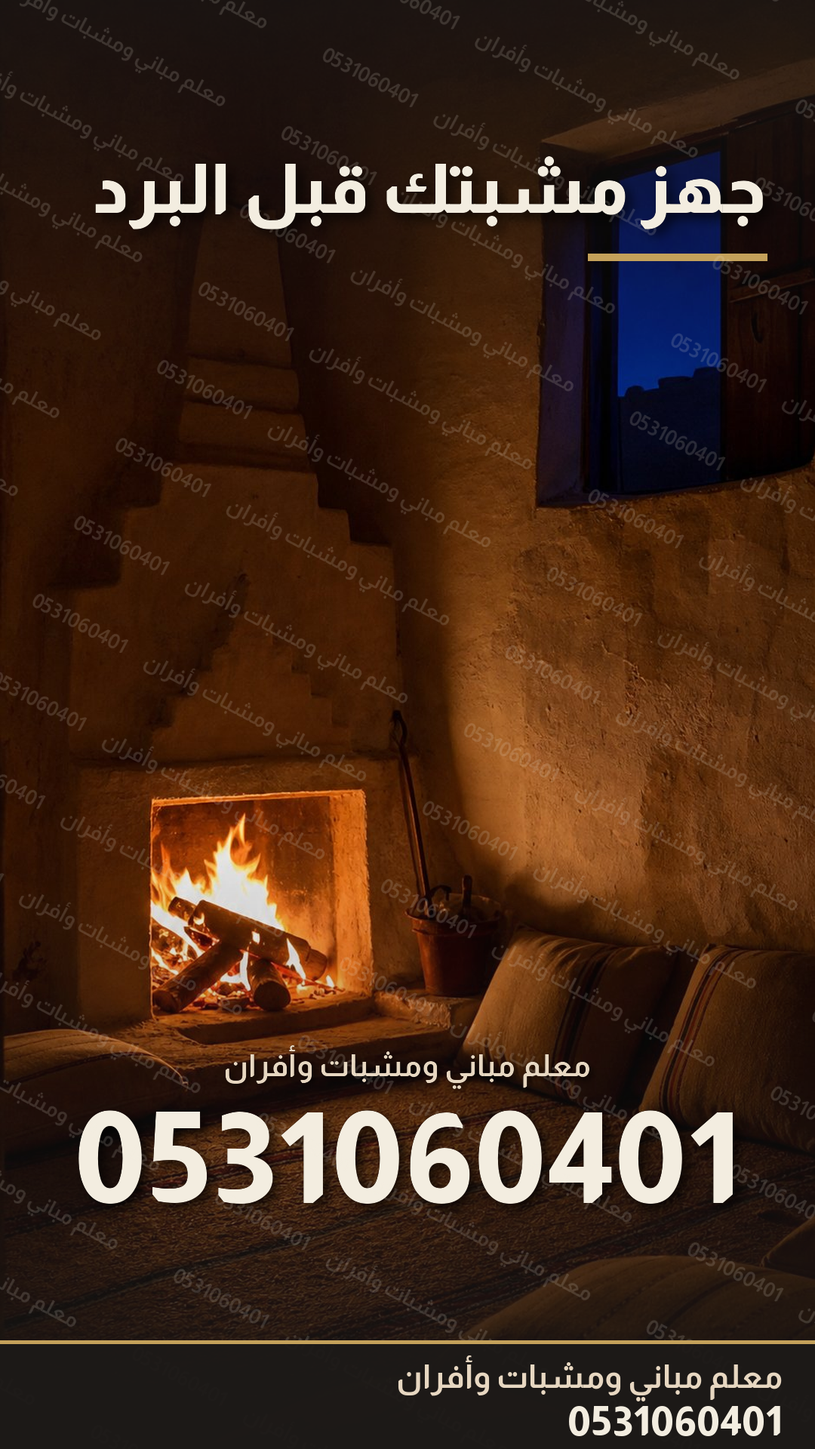
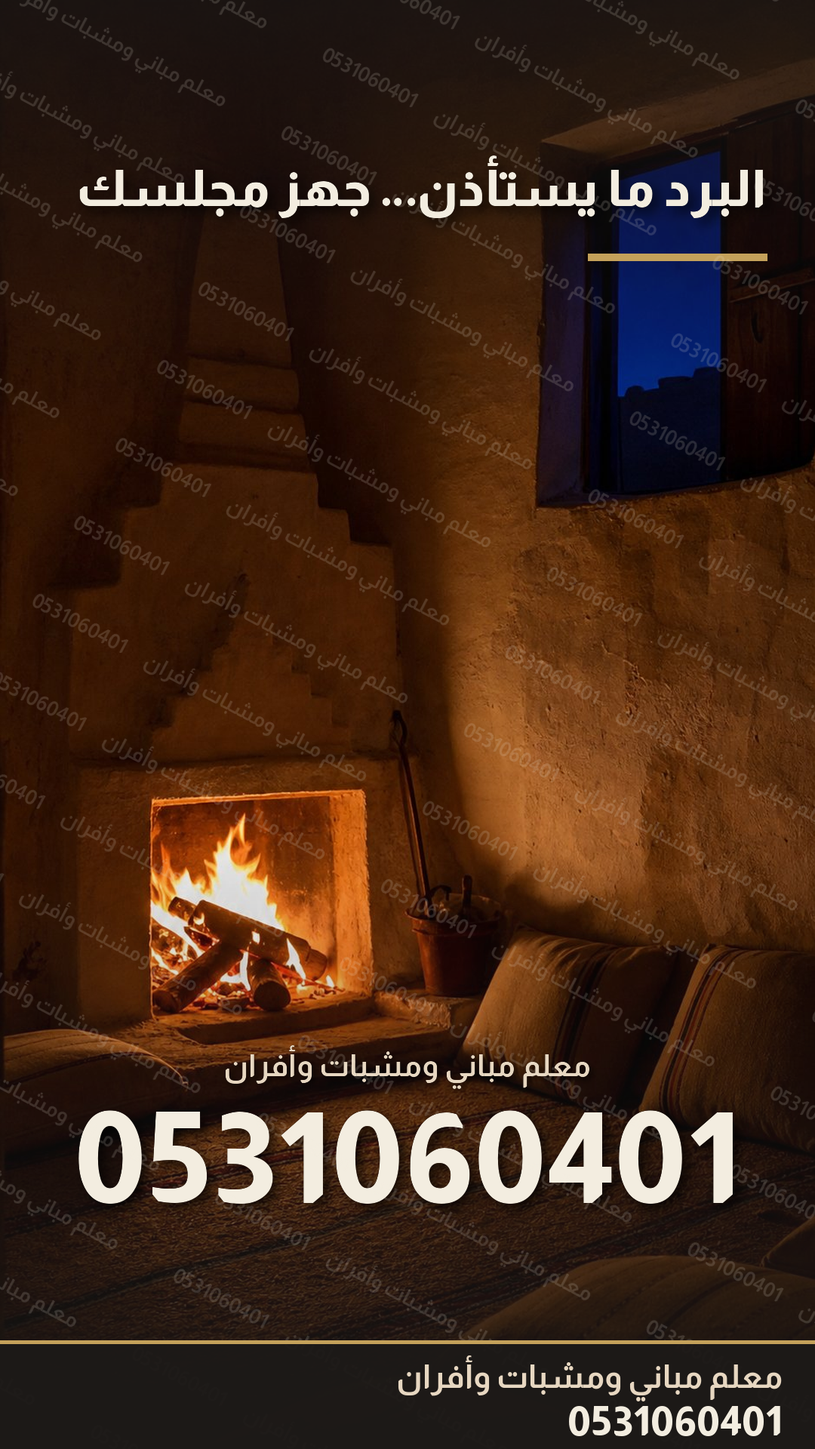
نسخ إعلاني جذاب: موقع محدث (اتصال+عهود+أسئلة)، هوك الصور والحالات، JSON-LD

Changed region(s): [[0.0917, 0.0938, 0.9472, 0.1562]]

diff --git a/haraj-riyadh-2026/docs/index.html b/haraj-riyadh-2026/docs/index.html
@@ -1,0 +1,334 @@
+<!DOCTYPE html>
+<html lang="ar" dir="rtl">
+<head>
+<meta charset="UTF-8">
+<meta name="viewport" content="width=device-width, initial-scale=1.0">
+<title>مشبات الرياض | معلم مباني — مشبات ملكية، أفران طين، جدران | 0531060401</title>
+<meta name="description" content="مجلسك يستاهل ناراً تليق فيه. معلم مباني في الرياض يبني بيده: مشبات ملكية وطوب وحجر ورخام، أفران طين ومندي، جدران وفواصل. سعر يُكتب قبل أول طوبة ويلزمنا. اتصل: 0531060401">
+<meta name="keywords" content="مشبات الرياض، مشبات حطب، مشبات طوب، مشبات حجر، مشبات ملكية، فرن طين، فرن حطب، أفران مندي، فرن خبز، معلم مباني الرياض، بناء جدران، فواصل، شويات، مناقل، حفر مندي، مداخن، استراحات، مزارع">
+<meta property="og:title" content="مشبات الرياض — مجلسك يستاهل ناراً تليق فيه">
+<meta property="og:description" content="معلم يبني بيده، سعر يُقفل قبل أول طوبة، ومدخنة تسحب صح. 0531060401">
+<meta property="og:image" content="assets/hero-royal.jpg">
+<meta property="og:type" content="website">
+<meta property="og:locale" content="ar_SA">
+<meta name="twitter:card" content="summary_large_image">
+<link rel="icon" type="image/jpeg" href="assets/profile.jpg">
+<link rel="preconnect" href="https://fonts.googleapis.com">
+<link rel="preconnect" href="https://fonts.gstatic.com" crossorigin>
+<link href="https://fonts.googleapis.com/css2?family=Almarai:wght@300;400;700;800&display=swap" rel="stylesheet">
+<script type="application/ld+json">
+{"@context":"https://schema.org","@type":"LocalBusiness",
+ "name":"مشبات وأفران — معلم مباني الرياض",
+ "telephone":"+966531060401",
+ "image":"assets/hero-royal.jpg",
+ "priceRange":"تبدأ من 1500",
+ "areaServed":["الرياض","الخرج","المزاحمية","ثرمداء","رماح","الحوطة","الدرعية"],
+ "description":"معلم مباني يبني بيده مشبات حطب وأفران طين وجدران وفواصل في الرياض. السعر يُكتب من البداية وما يتغير."}
+</script>
+<style>
+:root{
+  --charcoal:#1C1917; --brick:#8C3A2F; --brick2:#A34B32; --sand:#E7D7C1;
+  --cream:#F3EDE0; --ember:#C4A15A; --night:#1A2332; --wa:#1FAF63; --call:#D97706;
+}
+*{margin:0;padding:0;box-sizing:border-box}
+html{scroll-behavior:smooth}
+body{font-family:'Almarai',system-ui,sans-serif;background:var(--cream);color:var(--charcoal);line-height:1.75;overflow-x:hidden}
+img{max-width:100%;display:block}
+a{text-decoration:none;color:inherit}
+.wrap{width:min(1150px,92%);margin-inline:auto}
+
+/* ---------- الهيدر ---------- */
+header{position:sticky;top:0;z-index:50;background:rgba(28,25,23,.96);backdrop-filter:blur(8px);border-bottom:2px solid var(--ember)}
+.nav{display:flex;align-items:center;justify-content:space-between;gap:16px;padding:12px 0}
+.brand{display:flex;align-items:center;gap:12px;color:var(--cream)}
+.brand img{width:46px;height:46px;border-radius:50%;border:2px solid var(--ember)}
+.brand b{font-size:1.05rem;font-weight:800}
+.brand small{display:block;color:var(--ember);font-size:.72rem;font-weight:700}
+.nav-links{display:flex;gap:22px;font-weight:700;font-size:.92rem}
+.nav-links a{color:var(--sand);transition:.2s}
+.nav-links a:hover{color:var(--ember)}
+.head-ctas{display:flex;gap:10px}
+.call-btn{background:var(--brick);color:var(--cream);padding:10px 20px;border-radius:999px;font-weight:800;font-size:.95rem;direction:ltr;transition:.2s;border:1px solid var(--brick2)}
+.call-btn:hover{background:var(--brick2);transform:translateY(-1px)}
+@media(max-width:900px){.nav-links{display:none}}
+
+/* ---------- الهيرو ---------- */
+.hero{position:relative;min-height:82vh;display:flex;align-items:center;color:var(--cream);
+  background:linear-gradient(270deg,rgba(28,25,23,.94) 20%,rgba(28,25,23,.6) 55%,rgba(28,25,23,.25)),url('assets/hero-royal.jpg') center/cover no-repeat}
+.hero .wrap{padding:80px 0}
+.kicker{display:inline-block;background:rgba(196,161,90,.15);border:1px solid var(--ember);color:var(--ember);padding:6px 18px;border-radius:999px;font-weight:800;font-size:.85rem;margin-bottom:18px;animation:fadeUp .7s .1s both}
+.hero h1{font-size:clamp(2rem,4.8vw,3.6rem);font-weight:800;line-height:1.4;margin-bottom:16px;animation:fadeUp .7s .25s both}
+.hero h1 span{color:var(--ember)}
+.hero p{font-size:clamp(1.02rem,1.7vw,1.25rem);color:var(--sand);max-width:680px;margin-bottom:32px;animation:fadeUp .7s .4s both}
+.cta{display:flex;gap:14px;flex-wrap:wrap;animation:fadeUp .7s .55s both}
+.btn{padding:15px 32px;border-radius:14px;font-weight:800;font-size:1.08rem;transition:.2s;display:inline-flex;align-items:center;gap:10px}
+.btn-call{background:var(--call);color:#fff;box-shadow:0 8px 24px rgba(217,119,6,.35)}
+.btn-wa{background:var(--wa);color:#fff;box-shadow:0 8px 24px rgba(31,175,99,.35)}
+.btn-call:hover,.btn-wa:hover{transform:translateY(-3px)}
+.btn-ghost{border:2px solid var(--ember);color:var(--ember)}
+.btn-ghost:hover{background:rgba(196,161,90,.12)}
+.num{direction:ltr;font-weight:800}
+@keyframes fadeUp{from{opacity:0;transform:translateY(22px)}to{opacity:1;transform:none}}
+
+/* ---------- شريط الثقة ---------- */
+.trust{background:var(--charcoal);color:var(--sand);padding:24px 0}
+.trust .wrap{display:flex;gap:14px 38px;flex-wrap:wrap;justify-content:center;font-weight:700;font-size:.98rem}
+.trust i{color:var(--ember);font-style:normal}
+
+/* ---------- الأقسام ---------- */
+section{padding:80px 0}
+.h2{font-size:clamp(1.55rem,3.1vw,2.3rem);font-weight:800;margin-bottom:8px}
+.h2::after{content:"";display:block;width:78px;height:5px;background:var(--brick);border-radius:4px;margin-top:10px}
+.lead{color:#6b5f55;max-width:700px;margin:14px 0 40px;font-size:1.05rem}
+
+/* أنماط */
+.styles{background:#fff}
+.grid{display:grid;grid-template-columns:repeat(auto-fit,minmax(260px,1fr));gap:22px}
+.card{border-radius:18px;overflow:hidden;background:var(--cream);box-shadow:0 4px 18px rgba(28,25,23,.08);transition:.25s}
+.card:hover{transform:translateY(-6px);box-shadow:0 16px 38px rgba(28,25,23,.16)}
+.card img{height:230px;width:100%;object-fit:cover}
+.card .txt{padding:18px 20px 22px}
+.card h3{font-weight:800;font-size:1.14rem;margin-bottom:6px;color:var(--brick)}
+.card p{font-size:.93rem;color:#6b5f55}
+
+/* المعرض */
+.gallery{background:var(--charcoal);color:var(--cream)}
+.gallery .h2::after{background:var(--ember)}
+.gallery .lead{color:#b9ada0}
+.g-grid{display:grid;grid-template-columns:repeat(auto-fit,minmax(240px,1fr));gap:14px}
+.g-grid figure{position:relative;border-radius:12px;overflow:hidden;aspect-ratio:1}
+.g-grid img{width:100%;height:100%;object-fit:cover;transition:.4s}
+.g-grid figure:hover img{transform:scale(1.06)}
+.g-grid figcaption{position:absolute;inset-inline:0;bottom:0;background:linear-gradient(transparent,rgba(28,25,23,.92));padding:34px 14px 12px;font-size:.86rem;font-weight:700;color:var(--sand)}
+.honesty{margin-top:26px;font-size:.86rem;color:#9c9187;border-inline-start:3px solid var(--ember);padding-inline-start:14px}
+
+/* الأسعار */
+.prices{background:var(--sand)}
+.p-grid{display:grid;grid-template-columns:repeat(auto-fit,minmax(230px,1fr));gap:18px}
+.p-card{background:#fff;border-radius:18px;padding:26px 22px;box-shadow:0 4px 16px rgba(28,25,23,.07);border-top:5px solid var(--brick);transition:.2s}
+.p-card:hover{transform:translateY(-4px)}
+.p-card h3{font-weight:800;margin-bottom:8px}
+.p-card .v{font-size:1.5rem;font-weight:800;color:var(--brick);direction:ltr;text-align:right}
+.p-card small{color:#6b5f55}
+.offer{margin-top:32px;background:var(--charcoal);color:var(--cream);border:1px solid var(--ember);border-radius:18px;padding:28px 30px;display:flex;gap:20px;align-items:center;justify-content:space-between;flex-wrap:wrap}
+.offer b{color:var(--ember)}
+.offer p{max-width:580px}
+
+/* طريقتنا */
+.method{background:#fff}
+.m-grid{display:grid;grid-template-columns:repeat(auto-fit,minmax(240px,1fr));gap:20px}
+.m-card{background:var(--cream);border-radius:18px;padding:26px 24px;border-inline-start:5px solid var(--ember)}
+.m-card h3{font-weight:800;margin-bottom:6px}
+.m-card p{font-size:.93rem;color:#6b5f55}
+
+/* الخطوات */
+.steps{background:var(--sand)}
+.s-grid{display:grid;grid-template-columns:repeat(auto-fit,minmax(240px,1fr));gap:22px;counter-reset:st}
+.step{background:#fff;border-radius:18px;padding:30px 24px;position:relative;counter-increment:st;box-shadow:0 4px 16px rgba(28,25,23,.07)}
+.step::before{content:counter(st);position:absolute;top:-18px;inset-inline-start:22px;width:44px;height:44px;border-radius:50%;background:var(--brick);color:var(--cream);display:grid;place-items:center;font-weight:800;font-size:1.15rem}
+.step h3{margin:8px 0 6px;font-weight:800}
+.step p{font-size:.94rem;color:#6b5f55}
+
+/* الأسئلة */
+.faq{background:#fff}
+.faq details{background:var(--cream);border-radius:14px;margin-bottom:12px;padding:18px 22px;transition:.2s}
+.faq details[open]{box-shadow:0 6px 18px rgba(28,25,23,.1)}
+.faq summary{font-weight:800;cursor:pointer;list-style:none;position:relative;padding-inline-end:26px}
+.faq summary::after{content:"+";position:absolute;inset-inline-end:0;color:var(--brick);font-weight:800;transition:.2s}
+.faq details[open] summary::after{transform:rotate(45deg)}
+.faq p{margin-top:10px;color:#6b5f55;font-size:.95rem}
+
+/* المدن */
+.cities{margin-top:50px;text-align:center}
+.chips{display:flex;flex-wrap:wrap;gap:10px;justify-content:center;margin-top:18px}
+.chip{background:var(--charcoal);color:var(--sand);padding:9px 22px;border-radius:999px;font-weight:700;font-size:.92rem}
+
+/* ---------- الفوتر ---------- */
+footer{background:var(--charcoal);color:var(--sand);padding:50px 0 110px;text-align:center}
+footer .num{font-size:1.8rem;color:var(--cream)}
+footer small{display:block;margin-top:10px;color:#8d8177}
+
+/* أزرار عائمة: اتصال + واتساب */
+.floats{position:fixed;bottom:22px;inset-inline-start:22px;z-index:60;display:flex;flex-direction:column;gap:12px}
+.floats a{width:60px;height:60px;border-radius:50%;display:grid;place-items:center;color:#fff;font-size:1.5rem;transition:.2s}
+.floats a:hover{transform:scale(1.1)}
+.f-wa{background:var(--wa);box-shadow:0 10px 26px rgba(31,175,99,.45)}
+.f-call{background:var(--call);box-shadow:0 10px 26px rgba(217,119,6,.45)}
+
+/* شريط جوال سفلي */
+.mobile-cta{display:none;position:fixed;bottom:0;inset-inline:0;z-index:55;background:var(--charcoal);padding:12px 16px calc(12px + env(safe-area-inset-bottom));gap:12px}
+.mobile-cta a{flex:1;text-align:center;border-radius:12px;padding:13px 0;font-weight:800;color:#fff}
+.mc-call{background:var(--call)}
+.mc-wa{background:var(--wa)}
+@media(max-width:720px){.mobile-cta{display:flex}.floats{display:none}footer{padding-bottom:130px}}
+
+/* ظهور عند التمرير */
+.rev{opacity:0;transform:translateY(26px);transition:opacity .7s ease,transform .7s ease}
+.rev.on{opacity:1;transform:none}
+@media(prefers-reduced-motion:reduce){.rev{opacity:1;transform:none;transition:none}.hero *{animation:none}}
+</style>
+</head>
+<body>
+
+<header>
+  <div class="wrap nav">
+    <a class="brand" href="#top">
+      <img src="assets/profile.jpg" alt="مشبات وأفران الرياض">
+      <span><b>معلم مباني | مشبات وأفران</b><small>الرياض — شغل يدٍ تطمئن له النار</small></span>
+    </a>
+    <nav class="nav-links">
+      <a href="#styles">الأنماط</a>
+      <a href="#gallery">المعرض</a>
+      <a href="#prices">الأسعار</a>
+      <a href="#method">طريقتنا</a>
+      <a href="#faq">الأسئلة</a>
+    </nav>
+    <div class="head-ctas">
+      <a class="call-btn num" href="tel:0531060401">0531060401</a>
+    </div>
+  </div>
+</header>
+
+<section class="hero" id="top">
+  <div class="wrap">
+    <span class="kicker">معلم مباني — الرياض وما حولها</span>
+    <h1>مجلسك يستاهل<br><span>ناراً تليق فيه</span></h1>
+    <p>من أول طوبة إلى أول شبّة… يد واحدة تبني، وسعر واحد يُكتب قبل الشغل <b>ويلزمنا</b>.
+       مشبات ملكية وطوب وحجر ورخام، أفران تفوح، وجدران تسند العين.</p>
+    <div class="cta">
+      <a class="btn btn-call num" href="tel:0531060401">📞 اتصل الآن — 0531060401</a>
+      <a class="btn btn-wa" href="https://wa.me/966531060401?text=%D8%A7%D9%84%D8%B3%D9%84%D8%A7%D9%85%20%D8%B9%D9%84%D9%8A%D9%83%D9%85%2C%20%D8%A3%D8%A8%D8%BA%D9%89%20%D8%A3%D8%B1%D8%B3%D9%84%20%D8%B5%D9%88%D8%B1%D8%A9%20%D8%A7%D9%84%D9%85%D9%83%D8%A7%D9%86%20%D9%88%D8%A2%D8%AE%D8%B0%20%D8%A7%D9%84%D8%B3%D8%B9%D8%B1" target="_blank" rel="noopener">واتساب: أرسل صورة المكان</a>
+      <a class="btn btn-ghost" href="#gallery">شوف النماذج</a>
+    </div>
+  </div>
+</section>
+
+<div class="trust">
+  <div class="wrap">
+    <span><i>✔</i> سعر يُقفل قبل أول طوبة</span>
+    <span><i>✔</i> يد معلم… لا سلسلة مقاولين</span>
+    <span><i>✔</i> مدخنة تسحب صح</span>
+    <span><i>✔</i> صورة يومية لك من موقع شغلك</span>
+  </div>
+</div>
+
+<section class="styles" id="styles">
+  <div class="wrap">
+    <h2 class="h2 rev">اختر شخصية مجلسك</h2>
+    <p class="lead rev">ملكي يباهي؟ تراثي يحكي؟ عصري يهدأ؟ نبني على ذوقك — مو على قالب.</p>
+    <div class="grid">
+      <div class="card rev"><img loading="lazy" src="assets/hero-royal.jpg" alt="مشبات ملكية بالرياض"><div class="txt"><h3>مشبات ملكية</h3><p>جدار طوب كامل بقوسٍ يفوح هيبة — مجلس يدخله البرد فيستحي.</p></div></div>
+      <div class="card rev"><img loading="lazy" src="assets/royal-02.jpg" alt="مشبة مع رفوف خشبية مدمجة"><div class="txt"><h3>مشبة ومكتبات مدمجة</h3><p>النار في الوسط، وذوقك على الرفوف — جدارٌ يُحكَى.</p></div></div>
+      <div class="card rev"><img loading="lazy" src="assets/royal-03.jpg" alt="مشبة تكسية حجر"><div class="txt"><h3>تكسية حجر وطوب</h3><p>حجرٌ مورّد وقوس طوب حراري — فخامة هادئة تعيش معك سنين.</p></div></div>
+      <div class="card rev"><img loading="lazy" src="assets/royal-04.jpg" alt="مشبة جبس بأقواس ديكورية"><div class="txt"><h3>أقواس ديكورية (GRC)</h3><p>تراثٌ بلمسة عصرية — أقواس تحضن النار وتحضن العين.</p></div></div>
+      <div class="card rev"><img loading="lazy" src="assets/brick-oven-01.jpg" alt="فرن ومنضدة بطوب حراري"><div class="txt"><h3>فرن ومنضدة بطوب</h3><p>للحوش والاستراحة: طوب حراري، منضدة، وتشطيب يفتح النفس.</p></div></div>
+      <div class="card rev"><img loading="lazy" src="assets/winter-01.jpg" alt="مشبة مجلس شتوي"><div class="txt"><h3>مشبة المجلس الشتوي</h3><p>نار دافية ومدخنة مضبوطة — لأن الشتاء ما يكمل إلا بمجلس.</p></div></div>
+    </div>
+  </div>
+</section>
+
+<section class="gallery" id="gallery">
+  <div class="wrap">
+    <h2 class="h2 rev">شغل يفتح النفس</h2>
+    <p class="lead rev">نماذج تُبنى على ذوقك — وكل شغل حقيقي يسلّم موثقاً بصورة من مكانه.</p>
+    <div class="g-grid">
+      <figure class="rev"><img loading="lazy" src="assets/hero-royal.jpg" alt="مجلس ملكي بمشبة طوب"><figcaption>مجلس ملكي — جدار طوب كامل</figcaption></figure>
+      <figure class="rev"><img loading="lazy" src="assets/royal-02.jpg" alt="مشبة برفوف مدمجة"><figcaption>مشبة ومكتبات مدمجة</figcaption></figure>
+      <figure class="rev"><img loading="lazy" src="assets/royal-03.jpg" alt="تكسية حجر"><figcaption>تكسية حجر وقوس طوب</figcaption></figure>
+      <figure class="rev"><img loading="lazy" src="assets/royal-04.jpg" alt="مشبة جبس"><figcaption>أقواس ديكورية</figcaption></figure>
+      <figure class="rev"><img loading="lazy" src="assets/winter-01.jpg" alt="مشبة مجلس"><figcaption>مجلس شتوي</figcaption></figure>
+      <figure class="rev"><img loading="lazy" src="assets/brick-oven-01.jpg" alt="فرن ومنضدة"><figcaption>فرن ومنضدة بطوب</figcaption></figure>
+      <figure class="rev"><img loading="lazy" src="assets/oven-01.jpg" alt="فرن طين"><figcaption>فرن طين — خبز ومندي</figcaption></figure>
+      <figure class="rev"><img loading="lazy" src="assets/walls-01.jpg" alt="بناء جدران"><figcaption>جدران وفواصل</figcaption></figure>
+      <figure class="rev"><img loading="lazy" src="assets/farms-03.jpg" alt="مشبة مزرعة"><figcaption>للمزارع والاستراحات</figcaption></figure>
+      <figure class="rev"><img loading="lazy" src="assets/night-01.jpg" alt="مشبة ليلية"><figcaption>ليالي الشتاء</figcaption></figure>
+    </div>
+    <p class="honesty">الصور نماذج وتصاميم إعلانية. شغلك أنت يوثَّق بصور من مكانك نفسه — ولا نقدّم صورة أحدٍ على أنها شغلنا.</p>
+  </div>
+</section>
+
+<section class="prices" id="prices">
+  <div class="wrap">
+    <h2 class="h2 rev">سعرنا واضح… لأن الوضوح يدفّي مثل النار</h2>
+    <p class="lead rev">ما نقول «الأرخص» كلاماً — نقول الأصدق رقماً: سعر على مكانك أنت، يُكتب قبل أول طوبة ويلزمنا.</p>
+    <div class="p-grid">
+      <div class="p-card rev"><h3>مشبة طوب أو حجر</h3><div class="v">1500+</div><small>تبدأ من — والحجم يغيّر السعر</small></div>
+      <div class="p-card rev"><h3>طوب حراري</h3><div class="v">2000–6000</div><small>حسب التصميم والعمق</small></div>
+      <div class="p-card rev"><h3>رخام</h3><div class="v">3000–15000</div><small>لمن اختار الشكل الملكي</small></div>
+      <div class="p-card rev"><h3>فرن طين / طوب</h3><div class="v">حسب الصورة</div><small>أرسل صورة وحجماً — خذ رقماً</small></div>
+      <div class="p-card rev"><h3>جدران وفواصل</h3><div class="v">سعر المتر</div><small>نتفق عليه من البداية</small></div>
+      <div class="p-card rev"><h3>شويات ومناقل ومندي</h3><div class="v">حسب الطلب</div><small>مع المشبة أو لحالها</small></div>
+    </div>
+    <div class="offer rev">
+      <p><b>باقة الموسم — مجلس يكتمل:</b> مشبة + فرن في اتفاق واحد وسعر واحد مكتوب. الشتاء يدخل ومجلسك جاهز.</p>
+      <a class="btn btn-wa" href="https://wa.me/966531060401?text=%D8%A3%D8%A8%D8%BA%D9%89%20%D8%A8%D8%A7%D9%82%D8%A9%20%D9%85%D8%B4%D8%A8%D8%A9%20%2B%20%D9%81%D8%B1%D9%86" target="_blank" rel="noopener">اطلب الباقة</a>
+    </div>
+  </div>
+</section>
+
+<section class="method" id="method">
+  <div class="wrap">
+    <h2 class="h2 rev">طريقتنا — أربعة عهود</h2>
+    <p class="lead rev">ليش أصحاب البيوت والمزارع يرتاحون معنا؟ لأن العهد عندي يُكتب، لا يُقال.</p>
+    <div class="m-grid">
+      <div class="m-card rev"><h3>الاتفاق مقدّس</h3><p>السعر الذي يُكتب قبل الشغل هو الذي يُدفع بعده. بلا مفاجآت، بلا ملحقات.</p></div>
+      <div class="m-card rev"><h3>عينك على شغلك</h3><p>صورة واحدة كل يوم من الموقع — تشوف الطوب يرتب قبل ما تشوفه بعينك.</p></div>
+      <div class="m-card rev"><h3>الباقي عند الاستلام</h3><p>دفعة المواد أول، والباقي لما تسلّم وتشبّ النار قدامك.</p></div>
+      <div class="m-card rev"><h3>نسلّم والمكان أطيب</h3><p>تشطيب نظيف وموقع مرتب — آخر لمسة جزء من الشغل، مو زيادة كرم.</p></div>
+    </div>
+  </div>
+</section>
+
+<section class="steps" id="order">
+  <div class="wrap">
+    <h2 class="h2 rev">ثلاث خطوات… وبعدها ريحة حطب</h2>
+    <p class="lead rev">من رسالتك الأولى إلى أول شبّة نار — المسار واضح مثل السعر.</p>
+    <div class="s-grid">
+      <div class="step rev"><h3>أرسل صورة المكان</h3><p>واتساب أو اتصال: نوع الشغل، الحجم التقريبي، واللوكيشن.</p></div>
+      <div class="step rev"><h3>خذ رقماً يلزمنا</h3><p>سعر على شغلك أنت — يُكتب قبل أول طوبة وما يتغير.</p></div>
+      <div class="step rev"><h3>استلم دفى مجلسك</h3><p>تنفيذ مرتب، صورة يومية، والباقي عند الاستلام.</p></div>
+    </div>
+
+    <div class="faq" id="faq" style="margin-top:60px">
+      <h2 class="h2 rev">أسئلة تسبق الاتصال</h2>
+      <p class="lead rev">جاوبنا قبل ما تسأل — والباقي على الهاتف.</p>
+      <details class="rev"><summary>كم تأخذ المشبة وقتاً؟</summary><p>المدة تُكتب في الاتفاق الخاص بعد ما نشوف الشغل — ما نوزع وعوداً في الإعلانات، نوزع اتفاقات مكتوبة.</p></details>
+      <details class="rev"><summary>وش يدخل في السعر؟</summary><p>المواد، الشغل، المدخنة، والتشطيب — تعرف كل البنود قبل الموافقة، وبعدها يُقفل السعر.</p></details>
+      <details class="rev"><summary>توصلون خارج الرياض؟</summary><p>نعم: الخرج، المزاحمية، ثرمداء، رماح، الحوطة، والدرعية. أرسل اللوكيشن مع صورة المكان.</p></details>
+      <details class="rev"><summary>أشوف شغلكم الحقيقي؟</summary><p>نعم — صور من مواقع الشغل نفسها، ونصرّح دائماً أن الصور التصميمة تصاميم. الصدق أول أدواتنا.</p></details>
+    </div>
+
+    <div class="cities rev">
+      <h2 class="h2" style="display:inline-block">وين ما كان مجلسك… ندفّيه</h2>
+      <div class="chips">
+        <span class="chip">الرياض</span><span class="chip">الخرج</span><span class="chip">المزاحمية</span>
+        <span class="chip">ثرمداء</span><span class="chip">رماح</span><span class="chip">الحوطة</span><span class="chip">الدرعية</span>
+      </div>
+    </div>
+  </div>
+</section>
+
+<footer>
+  <div class="wrap">
+    <b style="font-size:1.2rem;color:var(--cream)">معلم مباني ومشبات وأفران — الرياض</b><br>
+    <a class="num" href="tel:0531060401">0531060401</a>
+    <small>البرد ما يستأذن… خلّ مجلسك جاهزاً قبله.</small>
+  </div>
+</footer>
+
+<div class="floats">
+  <a class="f-call num" href="tel:0531060401" aria-label="اتصال">📞</a>
+  <a class="f-wa" href="https://wa.me/966531060401" target="_blank" rel="noopener" aria-label="واتساب">✆</a>
+</div>
+
+<div class="mobile-cta">
+  <a class="mc-call num" href="tel:0531060401">اتصال</a>
+  <a class="mc-wa" href="https://wa.me/966531060401" target="_blank" rel="noopener">واتساب</a>
+</div>
+
+<script>
+const io=new IntersectionObserver(es=>es.forEach(e=>{if(e.isIntersecting){e.target.classList.add('on');io.unobserve(e.target)}}),{threshold:.12});
+document.querySelectorAll('.rev').forEach(el=>io.observe(el));
+</script>
+</body>
+</html>

diff --git a/haraj-riyadh-2026/02-المنشورات.md b/haraj-riyadh-2026/02-المنشورات.md
@@ -86,7 +86,7 @@
 **الوصف:**
 
 ```
-جهّز مشبتك قبل البرد.
+أول ليلة برد… مجلسك جاهز، وإلا تتفرج على البرد من الشباك؟
 
 نبني مشبات حطب:
 
@@ -244,7 +244,7 @@
 **الوصف:**
 
 ```
-ليالي الشتاء أحلى مع مشبة.
+الشتاء ما يكمل إلا بنارٍ تضوي ومجلسٍ مرتب.
 
 نار دافية، مجلس مرتب، ومدخنة مضبوطة.
 
@@ -381,7 +381,7 @@
 ```
 معلم مباني ومشبات وأفران
 
-جهّز مشبتك قبل البرد
+البرد ما يستأذن… جهّز مجلسك
 
 الرياض
 
@@ -393,7 +393,11 @@
 **لا يبقى نفس السطر الثاني أكثر من 48 ساعة.** بدّله بين:
 
 ```
-جهّز مشبتك قبل البرد
+البرد ما يستأذن… جهّز مجلسك
+```
+
+```
+الشاهي على نارٍ تبنيها يد… ذا شتاء المجلس
 ```
 
 ```
